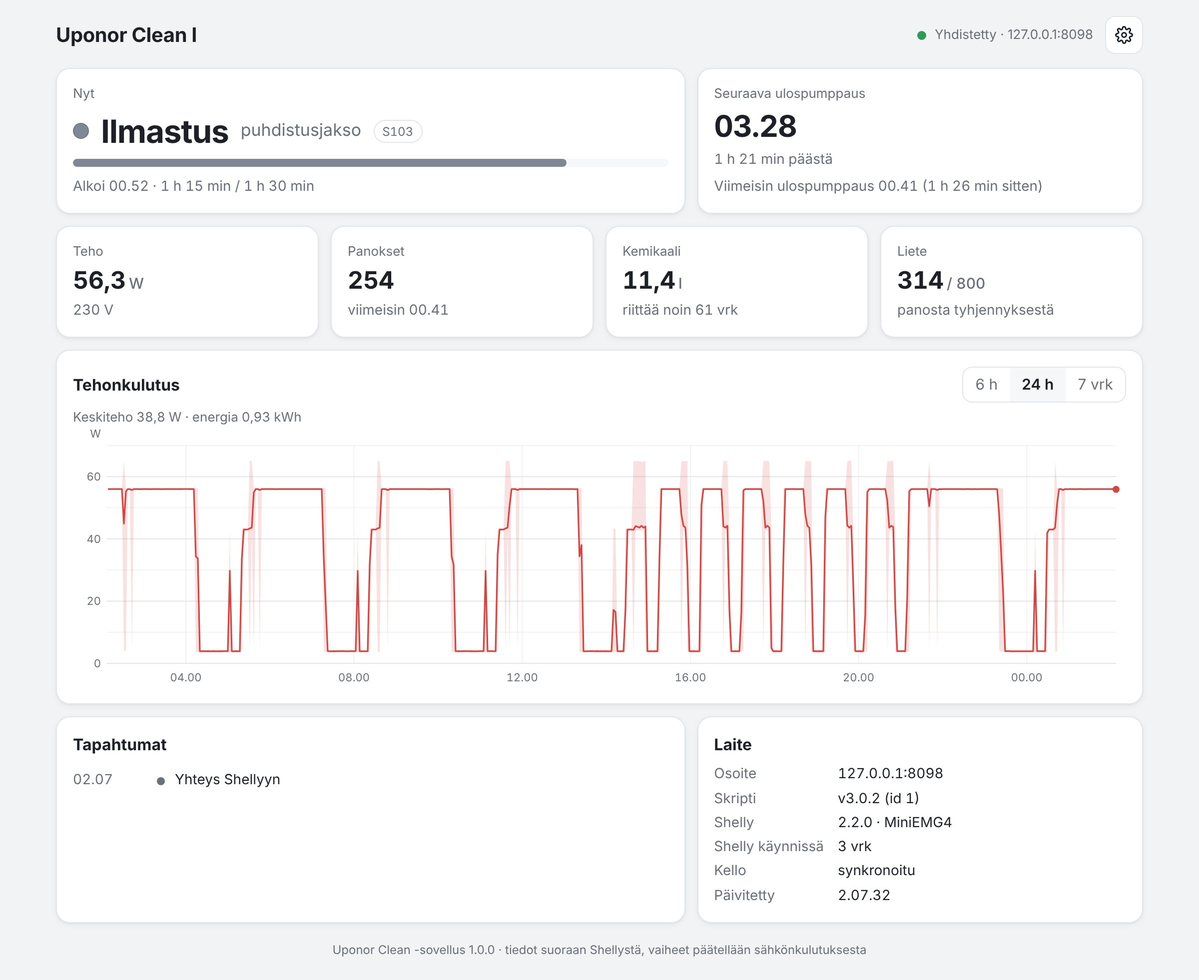
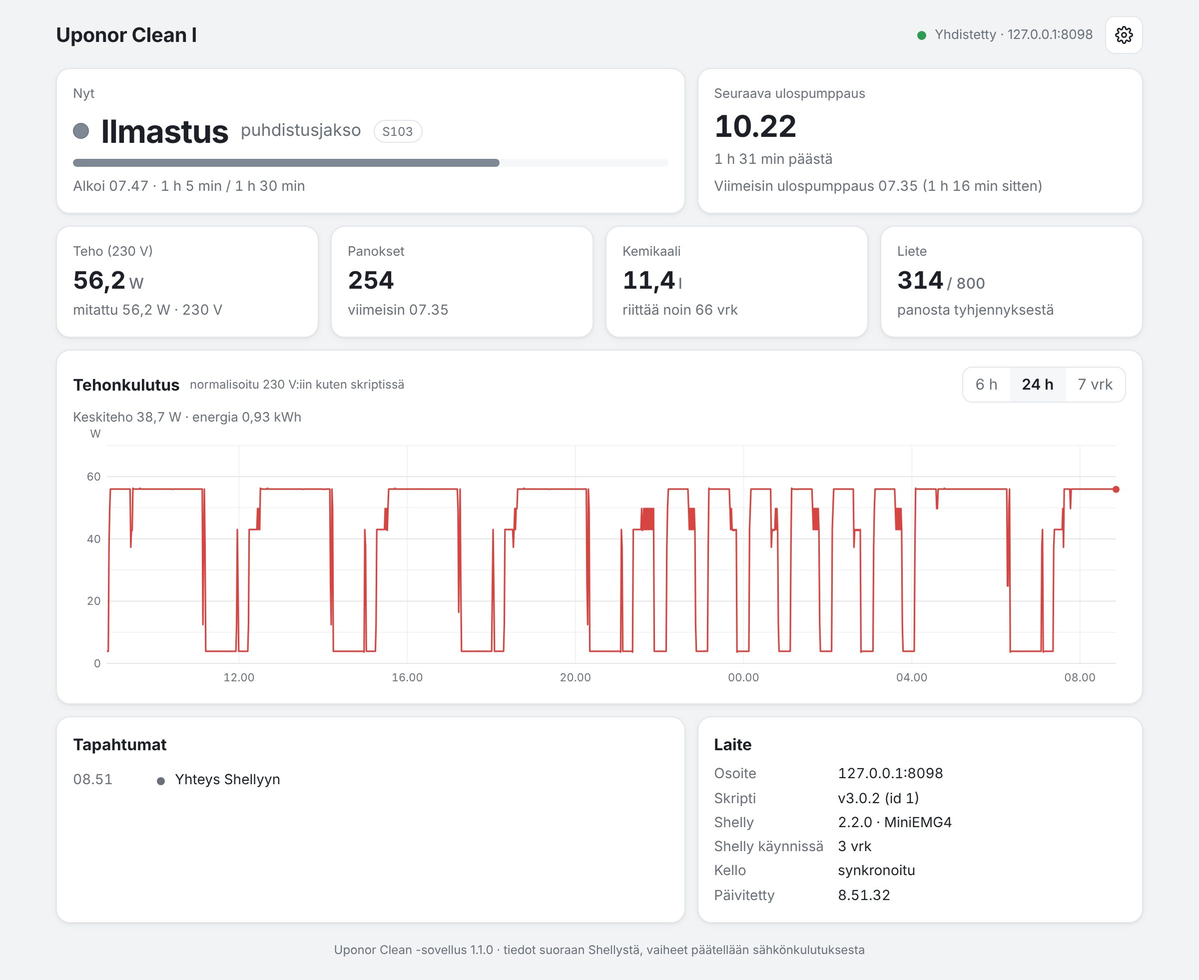
App 1.1.0: power normalised to 230 V, chart without the energy steps
The EM1Data minute energy comes in steps of about 0.2072 Wh, so the
minute average power computed from it jumped between 0, 12.4, 24.9,
37.3, 49.7 and 62.2 W and could fall below the minute's minimum power.
The chart now takes the power of a minute from the middle of its
minimum and maximum (or the energy average kept between them when the
power changed in the minute) and normalises it to 230 V with the
script's formula (P - 4) * (230 / U)^2 + 4. On the device the aeration
level is now 57.0 W +- 0.5 W instead of jumping by 12.4 W; the energy
over a day is unchanged. The min-max band is gone; 6 h and 24 h show a
point a minute, 7 d 15-minute averages. The power tile shows the
normalised power with the measured power and voltage under it.

The WebSocket mock quantises the minute energy like the device. Guides,
limits pages (new EM1Data energy step row) and screenshots updated.

Claude-Session: https://claude.ai/code/session_013N1LumQrB2qyWVDVuPZ4Fc

diff --git a/app/uponor-clean-app.html b/app/uponor-clean-app.html
@@ -12,19 +12,19 @@
 <style>
 :root {
   --bg: #f2f3f5; --card: #ffffff; --fg: #1d2127; --muted: #69707a; --line: #e3e5e9; --soft: #f6f7f9;
-  --accent: #2D8CE0; --power: #d64541; --band: rgba(214, 69, 65, .16); --ok: #2e9b55; --warn: #d9822b; --bad: #d64541;
+  --accent: #2D8CE0; --power: #d64541; --ok: #2e9b55; --warn: #d9822b; --bad: #d64541;
   --shadow: 0 1px 2px rgba(0,0,0,.05), 0 2px 8px rgba(0,0,0,.04);
   color-scheme: light;
 }
 @media (prefers-color-scheme: dark) {
   :root:not([data-theme="light"]) {
     --bg: #111317; --card: #1b1e24; --fg: #e7e9ec; --muted: #9aa1ab; --line: #2c3038; --soft: #22262d;
-    --accent: #4aa3ee; --power: #f0625d; --band: rgba(240, 98, 93, .2); --shadow: none; color-scheme: dark;
+    --accent: #4aa3ee; --power: #f0625d; --shadow: none; color-scheme: dark;
   }
 }
 :root[data-theme="dark"] {
   --bg: #111317; --card: #1b1e24; --fg: #e7e9ec; --muted: #9aa1ab; --line: #2c3038; --soft: #22262d;
-  --accent: #4aa3ee; --power: #f0625d; --band: rgba(240, 98, 93, .2); --shadow: none; color-scheme: dark;
+  --accent: #4aa3ee; --power: #f0625d; --shadow: none; color-scheme: dark;
 }
 * { box-sizing: border-box; }
 html, body { margin: 0; }
@@ -70,6 +70,7 @@ header h1 { font-size: 20px; margin: 0; font-weight: 650; letter-spacing: -.01em
 .banner ul { margin: 0; padding-left: 18px; }
 .chart-head { display: flex; align-items: center; gap: 10px; flex-wrap: wrap; margin-bottom: 6px; }
 .chart-head h2, .log h2, .info h2 { font-size: 16px; margin: 0; font-weight: 650; }
+.chart-head .lbl { font-size: 12px; }
 .seg { margin-left: auto; display: inline-flex; border: 1px solid var(--line); border-radius: 10px; overflow: hidden; }
 .seg button { border: 0; background: transparent; padding: 6px 12px; cursor: pointer; color: var(--muted); }
 .seg button.on { background: var(--soft); color: var(--fg); font-weight: 600; }
@@ -77,7 +78,6 @@ header h1 { font-size: 20px; margin: 0; font-weight: 650; letter-spacing: -.01em
 #plot { width: 100%; height: 260px; display: block; touch-action: pan-y; }
 #plot text { fill: var(--muted); font-size: 11px; font-variant-numeric: tabular-nums; }
 #plot .grid-l { stroke: var(--line); stroke-width: 1; }
-#plot .band { fill: var(--band); }
 #plot .avg { fill: none; stroke: var(--power); stroke-width: 1.6; stroke-linejoin: round; }
 #plot .now { fill: var(--power); }
 #plot .cross { stroke: var(--muted); stroke-dasharray: 3 3; }
@@ -143,7 +143,7 @@ footer { color: var(--muted); font-size: 12px; text-align: center; padding: 18px
 
     <section class="card chart">
       <div class="chart-head">
-        <h2 id="c-title"></h2>
+        <h2 id="c-title"></h2><span class="lbl" id="c-note"></span>
         <div class="seg" id="ranges" role="group">
           <button type="button" data-h="6">6 h</button><button type="button" data-h="24">24 h</button><button type="button" data-h="168" id="r7"></button>
         </div>
@@ -182,7 +182,7 @@ footer { color: var(--muted); font-size: 12px; text-align: center; padding: 18px
 <script>
 'use strict';
 (() => {
-const APP_VERSION = '1.0.0';
+const APP_VERSION = '1.1.0';
 
 // ------------------------------------------------------------------ texts
 const TX = {
@@ -194,13 +194,13 @@ const TX = {
     started: 'Alkoi {t}', of: '{a} / {b}', max: 'enintään {b}',
     next_out: 'Seuraava ulospumppaus', in: '{d} päästä', waiting_t: 'Odotetaan jätevettä', holiday_at: 'Loma-automatiikka alkaa {t}, jos aloitustasoa ei saavuteta',
     holiday_t: 'Loma-automatiikka', holiday_since: 'Käynnissä {t} alkaen', last_out: 'Viimeisin ulospumppaus {t} ({d} sitten)', no_eta: 'Ulospumppauksen aika näkyy, kun panos alkaa',
-    power: 'Teho', voltage: '{u} V', batches: 'Panokset', last_batch: 'viimeisin {t}', chemical: 'Kemikaali', lasts: 'riittää noin {d} vrk', chem_unset: 'syötä määrä Shellyssä',
+    power: 'Teho (230 V)', measured: 'mitattu {w} W · {u} V', batches: 'Panokset', last_batch: 'viimeisin {t}', chemical: 'Kemikaali', lasts: 'riittää noin {d} vrk', chem_unset: 'syötä määrä Shellyssä',
     sludge: 'Liete', sludge_sub: 'panosta tyhjennyksestä', sludge_reset: 'nollattu {t}', of_limit: '/ {n}',
     warn_t: 'Varoitukset', warn: { no_power: 'Ei sähköä – tarkista puhdistamon syöttö', air_leak: 'Suuri teho – tarkista ilmaletkut ja kompressori', no_signal: 'Tehomittaus puuttuu',
       compressor_idle: 'Kompressori ei käy', outlet_blocked: 'Lähtö tukossa? Pinta ei laskenut ulospumppauksessa', high_water: 'Korkea vesi – ilmastus ohitettiin tai katkesi',
       paused: 'Prosessi pysähtynyt? (esim. radiopaneelista)', chemical_low: 'Kemikaali vähissä – täytä ja syötä määrä', sludge_due: 'Lietteen tyhjennys ajankohtainen',
       sludge_emptied: 'Liete tyhjennetty? Nollaa lietelaskuri' },
-    chart: 'Tehonkulutus', d7: '7 vrk', avg: 'keskim. {w} W', range: '{a}–{b} W', sum: 'Keskiteho {w} W · energia {e} kWh{d}', per_day: ' · {e} kWh/vrk',
+    chart: 'Tehonkulutus', note: 'normalisoitu 230 V:iin kuten skriptissä', d7: '7 vrk', tip: '{t} · {w} W · mitattu {r} W, {u} V', sum: 'Keskiteho {w} W · energia {e} kWh{d}', per_day: ' · {e} kWh/vrk',
     no_hist: 'Tehohistoriaa ei ole vielä luettu', loading: 'Luetaan tehohistoriaa…',
     log: 'Tapahtumat', log_empty: 'Tapahtumat näkyvät tässä, kun sovellus on auki.',
     ev_phase: '{p} · {c}', ev_batch: 'Panos {n} valmis', ev_batch_user: 'Panoslaskuri asetettu: {n}', ev_warn_on: 'Varoitus: {w}', ev_warn_off: 'Varoitus poistui: {w}',
@@ -222,13 +222,13 @@ const TX = {
     started: 'Started {t}', of: '{a} / {b}', max: 'at most {b}',
     next_out: 'Next pump-out', in: 'in {d}', waiting_t: 'Waiting for wastewater', holiday_at: 'Holiday programme starts {t} if the start level is not reached',
     holiday_t: 'Holiday programme', holiday_since: 'Running since {t}', last_out: 'Last pump-out {t} ({d} ago)', no_eta: 'The pump-out time shows once a batch starts',
-    power: 'Power', voltage: '{u} V', batches: 'Batches', last_batch: 'last {t}', chemical: 'Chemical', lasts: 'lasts about {d} days', chem_unset: 'enter the amount in the Shelly',
+    power: 'Power (230 V)', measured: 'measured {w} W · {u} V', batches: 'Batches', last_batch: 'last {t}', chemical: 'Chemical', lasts: 'lasts about {d} days', chem_unset: 'enter the amount in the Shelly',
     sludge: 'Sludge', sludge_sub: 'batches since emptying', sludge_reset: 'reset {t}', of_limit: '/ {n}',
     warn_t: 'Warnings', warn: { no_power: 'No power – check the plant supply', air_leak: 'High power – check the air hoses and the compressor', no_signal: 'Power reading missing',
       compressor_idle: 'Compressor not running', outlet_blocked: 'Outlet blocked? The level did not drop at pump-out', high_water: 'High water – aeration skipped or cut short',
       paused: 'Process paused? (e.g. stopped from the radio panel)', chemical_low: 'Chemical low – refill and enter the amount', sludge_due: 'Sludge emptying due',
       sludge_emptied: 'Sludge emptied? Reset the sludge counter' },
-    chart: 'Power consumption', d7: '7 d', avg: 'avg {w} W', range: '{a}–{b} W', sum: 'Average {w} W · energy {e} kWh{d}', per_day: ' · {e} kWh/day',
+    chart: 'Power consumption', note: 'normalised to 230 V as in the script', d7: '7 d', tip: '{t} · {w} W · measured {r} W, {u} V', sum: 'Average {w} W · energy {e} kWh{d}', per_day: ' · {e} kWh/day',
     no_hist: 'No power history read yet', loading: 'Reading the power history…',
     log: 'Events', log_empty: 'Events show here while the app is open.',
     ev_phase: '{p} · {c}', ev_batch: 'Batch {n} completed', ev_batch_user: 'Batch counter set: {n}', ev_warn_on: 'Warning: {w}', ev_warn_off: 'Warning cleared: {w}',
@@ -396,7 +396,7 @@ function setTexts() {
   $('setb').setAttribute('aria-label', T.settings); $('setb').title = T.settings;
   $('l-now').textContent = T.now;
   $('tl-power').textContent = T.power; $('tl-batch').textContent = T.batches; $('tl-chem').textContent = T.chemical; $('tl-sludge').textContent = T.sludge;
-  $('c-title').textContent = T.chart; $('r7').textContent = T.d7; $('g-title').textContent = T.log; $('i-title').textContent = T.info; $('gempty').textContent = T.log_empty;
+  $('c-title').textContent = T.chart; $('c-note').textContent = T.note; $('r7').textContent = T.d7; $('g-title').textContent = T.log; $('i-title').textContent = T.info; $('gempty').textContent = T.log_empty;
   $('d-title').textContent = T.d_title; $('d-hint').textContent = T.d_hint; $('d-host-l').textContent = T.d_host; $('d-pw-l').textContent = T.d_pw;
   $('d-rem-l').textContent = T.d_rem; $('d-lang-l').textContent = T.d_lang; $('d-lang').options[0].textContent = T.d_auto; $('d-cancel').textContent = T.d_cancel; $('d-ok').textContent = T.d_ok;
   $('foot').textContent = fmt(T.foot, { v: APP_VERSION });
@@ -445,9 +445,10 @@ function render() {
   $('n-big').style.fontSize = $('n-big').textContent.length > 12 ? '22px' : '';
   $('n-last').textContent = st.last_pumpout ? fmt(T.last_out, { t: dayhm(st.last_pumpout), d: dur(now - st.last_pumpout) }) : '';
   // tiles
-  const pw = S.power !== null && now - S.powerAt < 30 ? S.power : st.power;
-  $('tv-power').innerHTML = num(pw, 1) + '<small>W</small>';
-  $('ts-power').textContent = S.voltage ? fmt(T.voltage, { u: num(S.voltage, 0) }) : ' ';
+  // normalised to 230 V like the chart and the script (the script's own value as a fallback)
+  const live = S.power !== null && now - S.powerAt < 30;
+  $('tv-power').innerHTML = num(live ? normW(S.power, S.voltage) : st.power, 1) + '<small>W</small>';
+  $('ts-power').textContent = live && S.voltage ? fmt(T.measured, { w: num(S.power, 1), u: num(S.voltage, 0) }) : '\u00a0';
   $('tv-batch').textContent = num(st.batches);
   $('ts-batch').textContent = st.last_pumpout ? fmt(T.last_batch, { t: dayhm(st.last_pumpout) }) : ' ';
   const ch = st.chemical || {};
@@ -524,7 +525,7 @@ async function fetchRange(from, to, onPage) {
     for (const blk of r.data || []) {
       blk.values.forEach((v, i) => {
         const ts = blk.ts + i * blk.period;
-        S.recs.set(ts, { e: v[KI.total_act_energy], mx: v[KI.max_act_power], mn: v[KI.min_act_power], p: blk.period });
+        S.recs.set(ts, { e: v[KI.total_act_energy], mx: v[KI.max_act_power], mn: v[KI.min_act_power], u: v[KI.avg_voltage], p: blk.period });
         if (S.lastTs === null || ts > S.lastTs) S.lastTs = ts;
       });
     }
@@ -554,26 +555,34 @@ async function loadHistory(full) {
   renderChart();
 }
 
+// The power of a minute: the middle of its minimum and maximum when they are close. The minute
+// energy of the Shelly comes in steps of about 0.207 Wh (12.4 W), so an average from it would jump.
+// When the power changed during the minute: the energy average, kept between the minimum and maximum.
+const minuteW = (r) => (r.mx - r.mn < 6 ? (r.mn + r.mx) / 2 : Math.min(r.mx, Math.max(r.mn, r.e * 3600 / r.p)));
+// normalised to 230 V like in the script, so that the voltage does not move the levels
+const normW = (p, u) => (p > 10 && u > 50 ? (p - 4) * (230 / u) * (230 / u) + 4 : p);
+
 let chartPts = null;
 function renderChart() {
   const svg = $('plot'), W = svg.clientWidth || 800, H = svg.clientHeight || 260;
   svg.setAttribute('viewBox', `0 0 ${W} ${H}`);
   const now = Date.now() / 1000, span = S.hours * 3600, t0 = now - span;
   const padL = 34, padR = 10, padT = 18, padB = 24, pw = W - padL - padR, ph = H - padT - padB;
-  // buckets: about one per 2 px
-  const nb = Math.max(30, Math.min(S.hours * 60, Math.floor(pw / 2)));
-  const bs = span / nb;
-  const B = [];
+  // one point a minute, or a 15-minute average over 7 days
+  const bs = S.hours > 24 ? 900 : 60;
+  const map = new Map(); let eSum = 0, sSum = 0;
   for (const [ts, r] of S.recs) {
     if (ts + r.p <= t0 || ts > now) continue;
-    const i = Math.min(nb - 1, Math.max(0, Math.floor((ts - t0) / bs)));
-    const b = B[i] || (B[i] = { e: 0, s: 0, mn: Infinity, mx: -Infinity, t: t0 + (i + 0.5) * bs });
-    b.e += r.e; b.s += r.p; b.mn = Math.min(b.mn, r.mn); b.mx = Math.max(b.mx, r.mx);
+    const k = Math.floor(ts / bs), w = minuteW(r), u = r.u || 230;
+    const b = map.get(k) || { k, n: 0, w: 0, pn: 0, u: 0, t: k * bs + bs / 2 };
+    b.n++; b.w += w; b.pn += normW(w, u); b.u += u; map.set(k, b);
+    eSum += r.e; sSum += r.p;
   }
-  let ymax = 70; let eSum = 0, sSum = 0;
-  for (const b of B) if (b) { b.avg = b.e * 3600 / b.s; ymax = Math.max(ymax, b.mx); eSum += b.e; sSum += b.s; }
+  const B = [...map.values()].sort((a, b) => a.k - b.k);
+  let ymax = 70;
+  for (const b of B) { b.w /= b.n; b.pn /= b.n; b.u /= b.n; ymax = Math.max(ymax, b.pn); }
   ymax = Math.ceil(ymax / 10) * 10;
-  const x = (t) => padL + (t - t0) / span * pw, y = (w) => padT + ph - w / ymax * ph;
+  const x = (t) => padL + (Math.min(now, Math.max(t0, t)) - t0) / span * pw, y = (w) => padT + ph - w / ymax * ph;
   let o = '';
   const step = ymax > 100 ? 25 : 10, lstep = ymax > 100 ? 50 : 20;
   for (let w = 0; w <= ymax; w += step) {
@@ -589,37 +598,39 @@ function renderChart() {
     o += `<line class="grid-l" x1="${x(t).toFixed(1)}" x2="${x(t).toFixed(1)}" y1="${padT}" y2="${padT + ph}" stroke-opacity=".5"/>`;
     o += `<text x="${x(t).toFixed(1)}" y="${H - 6}" text-anchor="middle">${lab}</text>`;
   }
-  // band (min-max) and average line, broken at gaps
-  const segs = []; let cur = [];
-  for (let i = 0; i < nb; i++) { if (B[i]) cur.push(B[i]); else if (cur.length) { segs.push(cur); cur = []; } }
-  if (cur.length) segs.push(cur);
-  for (const s of segs) {
-    const up = s.map((b) => `${x(b.t).toFixed(1)},${y(b.mx).toFixed(1)}`), dn = s.slice().reverse().map((b) => `${x(b.t).toFixed(1)},${y(b.mn).toFixed(1)}`);
-    if (s.length === 1) { const b = s[0]; o += `<rect class="band" x="${(x(b.t) - 1).toFixed(1)}" y="${y(b.mx).toFixed(1)}" width="2" height="${Math.max(1, y(b.mn) - y(b.mx)).toFixed(1)}"/>`; continue; }
-    o += `<polygon class="band" points="${up.join(' ')} ${dn.join(' ')}"/>`;
-    o += `<polyline class="avg" points="${s.map((b) => `${x(b.t).toFixed(1)},${y(b.avg).toFixed(1)}`).join(' ')}"/>`;
-  }
+  // the line, broken where minutes are missing
+  let seg = [];
+  const flush = () => {
+    if (seg.length === 1) o += `<circle class="now" cx="${x(seg[0].t).toFixed(1)}" cy="${y(seg[0].pn).toFixed(1)}" r="1.2"/>`;
+    else if (seg.length) o += `<polyline class="avg" points="${seg.map((b) => `${x(b.t).toFixed(1)},${y(b.pn).toFixed(1)}`).join(' ')}"/>`;
+    seg = [];
+  };
+  for (let i = 0; i < B.length; i++) { if (i && B[i].k - B[i - 1].k > 1) flush(); seg.push(B[i]); }
+  flush();
   // live power at the right edge
-  if (S.connected && S.power !== null && now - S.powerAt < 30) o += `<circle class="now" cx="${x(now).toFixed(1)}" cy="${y(Math.min(S.power, ymax)).toFixed(1)}" r="3.5"/>`;
+  if (S.connected && S.power !== null && now - S.powerAt < 30) o += `<circle class="now" cx="${x(now).toFixed(1)}" cy="${y(Math.min(normW(S.power, S.voltage), ymax)).toFixed(1)}" r="3.5"/>`;
   o += `<line class="cross" id="cross" x1="0" x2="0" y1="${padT}" y2="${padT + ph}" visibility="hidden"/>`;
-  if (!B.some(Boolean)) o += `<text x="${(padL + pw / 2).toFixed(0)}" y="${(padT + ph / 2).toFixed(0)}" text-anchor="middle" style="font-size:13px">${esc(S.connected && (S.histBusy || S.lastTs === null) ? T.loading : S.histErr ? S.histErr : T.no_hist)}</text>`;
+  if (!B.length) o += `<text x="${(padL + pw / 2).toFixed(0)}" y="${(padT + ph / 2).toFixed(0)}" text-anchor="middle" style="font-size:13px">${esc(S.connected && (S.histBusy || S.lastTs === null) ? T.loading : S.histErr ? S.histErr : T.no_hist)}</text>`;
   svg.innerHTML = o;
-  chartPts = { B, x, t0, bs, nb, padL, pw, W };
+  chartPts = { B, x, t0, span, padL, pw, W, bs };
   $('csum').textContent = sSum > 0 ? fmt(T.sum, { w: num(eSum * 3600 / sSum, 1), e: num(eSum / 1000, 2), d: S.hours > 24 ? fmt(T.per_day, { e: num(eSum / 1000 / (sSum / 86400), 2) }) : '' }) : ' ';
   for (const b of $('ranges').children) b.classList.toggle('on', Number(b.dataset.h) === S.hours);
 }
 
 function hover(ev) {
   const P = chartPts, tip = $('tip'), cross = document.getElementById('cross');
-  if (!P || !cross) return;
+  if (!P || !cross || !P.B.length) return;
   const r = $('plot').getBoundingClientRect();
   const px = (ev.clientX - r.left) * (P.W / r.width);
-  const i = Math.floor((px - P.padL) / P.pw * P.nb);
-  let b = null; for (let k = 0; k < 4 && !b; k++) b = P.B[i - k] || P.B[i + k];
-  if (!b || px < P.padL) { tip.style.display = 'none'; cross.setAttribute('visibility', 'hidden'); return; }
+  const t = P.t0 + (px - P.padL) / P.pw * P.span;
+  let lo = 0, hi = P.B.length - 1;
+  while (lo < hi) { const mid = (lo + hi) >> 1; if (P.B[mid].t < t) lo = mid + 1; else hi = mid; }
+  if (lo > 0 && Math.abs(P.B[lo - 1].t - t) < Math.abs(P.B[lo].t - t)) lo--;
+  const b = P.B[lo];
+  if (px < P.padL || Math.abs(b.t - t) > P.bs * 3) { tip.style.display = 'none'; cross.setAttribute('visibility', 'hidden'); return; }
   cross.setAttribute('x1', P.x(b.t)); cross.setAttribute('x2', P.x(b.t)); cross.setAttribute('visibility', 'visible');
-  const t = b.t, lab = S.hours > 24 ? new Date(t * 1000).toLocaleDateString(loc(), { weekday: 'short', day: 'numeric', month: 'numeric' }) + ' ' + hm(t) : hm(t);
-  tip.textContent = lab + ' · ' + fmt(T.avg, { w: num(b.avg, 1) }) + ' · ' + fmt(T.range, { a: num(b.mn, 0), b: num(b.mx, 0) });
+  const lab = S.hours > 24 ? new Date(b.t * 1000).toLocaleDateString(loc(), { weekday: 'short', day: 'numeric', month: 'numeric' }) + ' ' + hm(b.t) : hm(b.t);
+  tip.textContent = fmt(T.tip, { t: lab, w: num(b.pn, 1), r: num(b.w, 1), u: num(b.u, 0) });
   tip.style.display = 'block';
   const wx = (P.x(b.t) / P.W) * r.width;
   tip.style.left = Math.min(Math.max(0, wx - tip.offsetWidth / 2), r.width - tip.offsetWidth) + 'px';

diff --git a/test/shelly_ws_mock.js b/test/shelly_ws_mock.js
@@ -44,14 +44,19 @@ function powerAt(t) {
   while (lo < hi) { const mid = (lo + hi + 1) >> 1; if (feed[mid].t <= t) lo = mid; else hi = mid - 1; }
   return feed[lo].p;
 }
+// cumulative energy (Wh) at each feed change, for the energy of any minute
+const cum = [0];
+for (let i = 1; i < feed.length; i++) cum.push(cum[i - 1] + feed[i - 1].p * (feed[i].t - feed[i - 1].t) / 3600e3);
+function idxAt(t) { let lo = 0, hi = feed.length - 1; while (lo < hi) { const mid = (lo + hi + 1) >> 1; if (feed[mid].t <= t) lo = mid; else hi = mid - 1; } return lo; }
+function energyAt(t) { if (!feed.length || t <= feed[0].t) return 0; const i = idxAt(t); return cum[i] + feed[i].p * (t - feed[i].t) / 3600e3; }
+// like the device: the minute energy comes in steps of 0.2072 Wh
+const EQ = 0.2072;
 // one EM1Data record (60 s from ts, seconds): energy Wh, min and max power
 function record(ts) {
   const a = ts * 1000, b = a + 60e3;
-  let lo = 0, hi = feed.length - 1;
-  while (lo < hi) { const mid = (lo + hi + 1) >> 1; if (feed[mid].t <= a) lo = mid; else hi = mid - 1; }
-  let t = a, p = feed[lo] && feed[lo].t <= a ? feed[lo].p : 0, wh = 0, mn = p, mx = p, i = lo + 1;
-  while (i < feed.length && feed[i].t < b) { wh += p * (feed[i].t - t) / 3600e3; t = feed[i].t; p = feed[i].p; mn = Math.min(mn, p); mx = Math.max(mx, p); i++; }
-  wh += p * (b - t) / 3600e3;
+  const wh = (Math.floor(energyAt(b) / EQ) - Math.floor(energyAt(a) / EQ)) * EQ;
+  let i = idxAt(a), p = feed[i] && feed[i].t <= a ? feed[i].p : 0, mn = p, mx = p; i++;
+  while (i < feed.length && feed[i].t < b) { p = feed[i].p; mn = Math.min(mn, p); mx = Math.max(mx, p); i++; }
   const u = 230, r4 = (x) => Math.round(x * 1e4) / 1e4, r1 = (x) => Math.round(x * 10) / 10;
   return [r4(wh), 0, 0, 0, r1(mx), r1(mn), r1(mx * 1.08), r1(mn * 1.08), u + 0.4, u - 0.3, u, r4(mx / u), r4(mn / u), r4(wh * 60 / u)];
 }

diff --git a/docs/sovellus.md b/docs/sovellus.md
@@ -10,9 +10,9 @@
 
 - **Nyt**: vaihe, jakso ja vaihekoodi (esim. `S103`), vaiheen alkamisaika ja eteneminen firmwaren vaiheajoista.
 - **Seuraava ulospumppaus** kellonaikana ja aikana siihen. Odotusjaksossa sovellus näyttää, milloin loma-automatiikka alkaa, jos aloitustasoa ei saavuteta. Lisäksi näkyy viimeisin ulospumppaus.
-- **Teho** ja jännite noin 3 sekunnin välein, **panokset**, **kemikaali** ja sen riittävyys sekä **lietelaskuri**.
+- **Teho** normalisoituna 230 V:iin (alla mitattu teho ja jännite) noin 3 sekunnin välein, **panokset**, **kemikaali** ja sen riittävyys sekä **lietelaskuri**.
 - **Varoitukset** palkkina sivun yläosassa.
-- **Tehonkulutus** käyränä 6 tunnin, 24 tunnin tai 7 vuorokauden ajalta. Viiva on minuutin keskiteho, ja vaalea alue on pienin ja suurin teho. Käyrän yläpuolella on valitun jakson keskiteho ja energia. Osoittimen kohdalla näkyy ajankohdan tarkempi lukema.
+- **Tehonkulutus** käyränä 6 tunnin, 24 tunnin tai 7 vuorokauden ajalta. Käyrä on normalisoitu 230 V:n jännitteelle samalla kaavalla kuin skriptissä, joten jännitteen vaihtelu ei heiluta tasoja (ilmastus noin 57 W, sisäänpumppaus noin 43 W). 6 ja 24 tunnin näkymässä käyrällä on piste minuutin välein, 7 vuorokauden näkymässä 15 minuutin keskiarvo. Käyrän yläpuolella on valitun jakson keskiteho ja energia mitattuina. Osoittimen kohdalla näkyy normalisoitu teho sekä mitattu teho ja jännite.
 - **Tapahtumat** sinä aikana, kun sovellus on auki: vaihemuutokset, valmiit panokset, varoitukset, kemikaalin ja laskurien syötöt sekä skriptin käynnistykset.
 - **Laite**: skriptin ja Shellyn versio, käyntiaika ja kellon tila.
 
@@ -50,9 +50,11 @@ Kaikki kulkee Shellyn WebSocket-rajapinnan kautta (`ws://<shelly>/rpc`):
 | Skriptin tila | `Script.Eval` → `JSON.stringify(stateObject())` | 6 s ja tapahtuman jälkeen |
 | Teho ja jännite | `EM1.GetStatus` tai Shellyn lähettämä `NotifyStatus` | 3 s |
 | Tapahtumat | skriptin `uponor`-tapahtumat (`NotifyEvent`) | heti |
-| Tehohistoria | `EM1Data.GetData` (minuuttitiedot: energia, pienin ja suurin teho) | alussa 7 vrk, sitten minuutin välein uudet |
+| Tehohistoria | `EM1Data.GetData` (minuuttitiedot: energia, pienin ja suurin teho, jännite) | alussa 7 vrk, sitten minuutin välein uudet |
 
 Skriptin tilakysely `http://<shelly>/script/<id>/state` ei kelpaa selaimelle: Shelly vastaa 503, jos HTTP-kyselyssä on toisen sivun `Origin`-otsake (ks. [`shelly-rajoitteet.md`](shelly-rajoitteet.md)). Siksi sovellus lukee saman tilan `Script.Eval`-kutsulla. Skriptiin ei tarvittu muutoksia; funktion `stateObject()` nimi on nyt sovitun rajapinnan osa.
+
+Minuutin teho lasketaan minuutin pienimmästä ja suurimmasta tehosta. Shellyn minuuttienergia on porrastettu noin 0,207 Wh:n askeliin, joten siitä laskettu keskiteho hyppisi 12,4 W:n portain (ks. [`shelly-rajoitteet.md`](shelly-rajoitteet.md)). Jos teho muuttui kesken minuutin, käytetään energiasta laskettua keskiarvoa pienimmän ja suurimman tehon välissä. Teho normalisoidaan kaavalla (P − 4) · (230 / U)² + 4, kun P on yli 10 W.
 
 Vaiheiden historiaa sovellus ei näytä, koska Shelly ei tallenna sitä. Tapahtumaloki alkaa, kun sovellus avataan.
 

diff --git a/docs/app.md b/docs/app.md
@@ -10,9 +10,9 @@
 
 - **Now**: phase, cycle and phase code (e.g. `S103`), when the phase started and its progress from the firmware phase times.
 - **Next pump-out** as a clock time and the time until it. In the waiting cycle the app shows when the holiday programme starts if the start level is not reached. The last pump-out is shown too.
-- **Power** and voltage about every 3 seconds, **batches**, **chemical** and how long it lasts, and the **sludge counter**.
+- **Power** normalised to 230 V (below it the measured power and voltage) about every 3 seconds, **batches**, **chemical** and how long it lasts, and the **sludge counter**.
 - **Warnings** as a bar at the top of the page.
-- **Power consumption** as a chart over 6 hours, 24 hours or 7 days. The line is the average power of each minute and the light area the minimum and maximum. Above the chart are the average power and energy of the range. The pointer shows the reading at that time.
+- **Power consumption** as a chart over 6 hours, 24 hours or 7 days. The chart is normalised to a voltage of 230 V with the same formula as in the script, so the voltage does not move the levels (aeration about 57 W, pump-in about 43 W). In the 6 and 24 hour views the chart has a point a minute, in the 7 day view a 15-minute average. Above the chart are the measured average power and energy of the range. The pointer shows the normalised power and the measured power and voltage.
 - **Events** while the app is open: phase changes, completed batches, warnings, chemical and counter entries, and script starts.
 - **Device**: script and Shelly versions, uptime and clock state.
 
@@ -50,9 +50,11 @@ Everything goes through the Shelly WebSocket RPC (`ws://<shelly>/rpc`):
 | Script state | `Script.Eval` → `JSON.stringify(stateObject())` | 6 s and after an event |
 | Power and voltage | `EM1.GetStatus` or `NotifyStatus` sent by the Shelly | 3 s |
 | Events | the script's `uponor` events (`NotifyEvent`) | at once |
-| Power history | `EM1Data.GetData` (one record a minute: energy, minimum and maximum power) | 7 days at first, then the new minutes every minute |
+| Power history | `EM1Data.GetData` (one record a minute: energy, minimum and maximum power, voltage) | 7 days at first, then the new minutes every minute |
 
 The script's state endpoint `http://<shelly>/script/<id>/state` does not work for a browser: the Shelly answers 503 when an HTTP request carries the `Origin` header of another page (see [`shelly-limits.md`](shelly-limits.md)). So the app reads the same state with `Script.Eval`. The script needed no changes; the name of the function `stateObject()` is now part of the agreed interface.
+
+The power of a minute is taken from its minimum and maximum power. The minute energy of the Shelly comes in steps of about 0.207 Wh, so an average power from it would jump in steps of 12.4 W (see [`shelly-limits.md`](shelly-limits.md)). If the power changed during the minute, the energy average is used, kept between the minimum and maximum. The power is normalised with (P − 4) · (230 / U)² + 4 when P is over 10 W.
 
 The app does not show the phase history, because the Shelly does not store it. The event log starts when the app is opened.
 

diff --git a/README.fi.md b/README.fi.md
@@ -36,7 +36,7 @@ Home Assistantia ei tarvita: skriptin komponentit näkyvät myös Shellyn omassa
 | `shelly/v2/` | Vanhat skriptit v2.4 ja v2.3 (eivät käytössä) sekä v2.4:n komponenttien varmuuskopio (`backup/`). |
 | `shelly/v3/proto/` | v3-prototyypit laitetestiin ja komponenttien varmuuskopiotyökalu `uc_tools.js` (käytetty siirtymässä). Ohje: `docs/v3-prototyyppitesti.md`. |
 | `shelly/tools/` | `nauhuri.ps1` (Windows-nauhuri vianetsintään: teho sekunnin välein CSV:ksi), `lataa_shellyyn.py` (lataus Shellyyn RPC:llä), `compact.py` (tiivistys), `make_v24.py` (v2.3 → v2.4 -muunnos). |
-| `app/` | Selainsovellus `uponor-clean-app.html` 1.0.0 (yksi tiedosto, ohje `docs/sovellus.md`). |
+| `app/` | Selainsovellus `uponor-clean-app.html` 1.1.0 (yksi tiedosto, ohje `docs/sovellus.md`). |
 | `ha-card/` | Lovelace-kortti `uponor-clean-card.js` v1.7.4, ohje, esikatselusivu (`preview.html`) ja sen päivitystyökalu (`tools/build_preview.py`). |
 | `test/` | Node-testiympäristö: ajaa oikeaa skriptitiedostoa virtuaalikellolla Shelly-jäljitelmässä, firmwaresimulaattori, skenaariot, kortin testi ja sovelluksen WebSocket-jäljitelmä. |
 | `docs/` | Ohjeet, kuvat (`img/`), firmwaren pseudokoodi, v2-dokumentaatio ja v3-suunnitelman tiivistelmä. |
@@ -47,7 +47,7 @@ Home Assistantia ei tarvita: skriptin komponentit näkyvät myös Shellyn omassa
 | --- | --- |
 | Skripti v3.0.2 | Käytössä 19.11.2026 alkaen (julkaisu [v3.0.2](../../releases/tag/v3.0.2)). v3.0.0–3.0.1 kaatuivat ensimmäisen puhdistusjakson alussa liian syvään kutsupinoon (`docs/v3-testitulokset.md`). Ei vaadi Home Assistantia, luo komponentit itse, firmwaren mukaiset vaiheet ja jaksot, kemikaali- ja lietelaskuri, varoitukset, tapahtumat. |
 | Kortti v1.7.4 | Käytössä. v3-entiteetit, v2-historia ennen v3:a, visuaalinen editori ja kielivalinta, kemikaalin ja lietteen syöttö kortilta. |
-| Sovellus 1.0.0 | Uusi 22.11.2026: `app/uponor-clean-app.html` näyttää livetiedot ja Shellyn tallentaman tehohistorian selaimessa ([ohje](docs/sovellus.md)). |
+| Sovellus 1.1.0 | Uusi 22.11.2026: `app/uponor-clean-app.html` näyttää livetiedot ja Shellyn tallentaman tehohistorian selaimessa ([ohje](docs/sovellus.md)). 1.1.0: teho ja käyrä normalisoitu 230 V:iin, käyrä minuutin pienimmästä ja suurimmasta tehosta. |
 | Nauhuri 1.0 | Uusi 21.11.2026: `shelly/tools/nauhuri.ps1` nauhoittaa tehon vianetsintää varten ([ohje](docs/v3-asennus.md#nauhoitus-vianetsintää-varten)). |
 | Skripti v2.4.0 | Poistettu käytöstä 18.11.2026 ja poistettu laitteelta 19.11.2026. Ei siirtymää eikä paluuta. |
 | Skripti v2.3 | Vanha versio. |

diff --git a/README.md b/README.md
@@ -36,7 +36,7 @@ Development notes are in Finnish only: test results ([`docs/v3-testitulokset.md`
 | `shelly/v2/` | Old scripts v2.4 and v2.3 (not in use) and a backup of the v2.4 components (`backup/`). |
 | `shelly/v3/proto/` | v3 prototypes for the device test and the component backup tool `uc_tools.js` (used in the migration). |
 | `shelly/tools/` | `nauhuri.ps1` (Windows recorder for troubleshooting: power once a second to CSV), `lataa_shellyyn.py` (uploads a script over RPC in chunks), `compact.py` (makes the compact version), `make_v24.py` (v2.3 → v2.4). |
-| `app/` | Browser app `uponor-clean-app.html` 1.0.0 (a single file, guide `docs/app.md`). |
+| `app/` | Browser app `uponor-clean-app.html` 1.1.0 (a single file, guide `docs/app.md`). |
 | `ha-card/` | Lovelace card `uponor-clean-card.js` v1.7.4, its guide, a preview page (`preview.html`) and its build tool (`tools/build_preview.py`). |
 | `test/` | Node test environment: runs the real script file with a virtual clock in a Shelly mock, a control unit firmware simulator, scenarios, the card test and the WebSocket mock for the app. |
 | `docs/` | Guides, images (`img/`), the firmware pseudocode, v2 documentation and the v3 plan summary. |
@@ -47,7 +47,7 @@ Development notes are in Finnish only: test results ([`docs/v3-testitulokset.md`
 | --- | --- |
 | Script v3.0.2 | In use since 19 Nov 2026 (release [v3.0.2](../../releases/tag/v3.0.2)). v3.0.0–3.0.1 stopped at the start of the first cleaning cycle because the call stack got too deep (see the test results). Does not need Home Assistant, creates its own components, follows the firmware's phases and cycles, chemical and sludge counters, warnings, events. |
 | Card v1.7.4 | In use. v3 entities, v2 history before v3, visual editor and language option, entering chemical and sludge on the card. |
-| App 1.0.0 | New on 22 Nov 2026: `app/uponor-clean-app.html` shows live data and the power history stored on the Shelly in a browser ([guide](docs/app.md)). |
+| App 1.1.0 | New on 22 Nov 2026: `app/uponor-clean-app.html` shows live data and the power history stored on the Shelly in a browser ([guide](docs/app.md)). 1.1.0: power and chart normalised to 230 V, chart from the minute's minimum and maximum power. |
 | Recorder 1.0 | New on 21 Nov 2026: `shelly/tools/nauhuri.ps1` records the power for troubleshooting ([guide](docs/v3-install.md#recording-for-troubleshooting)). |
 | Script v2.4.0 | Retired on 18 Nov 2026 and removed from the device on 19 Nov 2026. No migration or return path. |
 | Script v2.3 | Old version. |

diff --git a/docs/shelly-limits.md b/docs/shelly-limits.md
@@ -51,5 +51,6 @@ Limits that came up while writing this script. They were found on a Shelly EM Mi
 | --- | --- | --- |
 | The web UI editor's text field holds at most 50,000 characters (`maxlength`). Tested on 19 Nov 2026: of a 60,000-character paste, 50,000 were kept, and Save stored the truncated code on the device. The device itself accepts longer code over RPC (`Script.PutCode`, tested with 60,000 characters). | The paste is cut **without any warning**, and the truncated script is saved | The compact version (about 40,000 characters) or `shelly/tools/lataa_shellyyn.py`, which writes in chunks. Reported to Shelly through the web UI's Feedback form. |
 | The Shelly answers 503 to an HTTP request that carries the `Origin` header of another page. This covers the RPC calls and the script's own HTTP endpoints, and a page opened from a local file (`Origin: null`) too. A CORS header in the script's response does not help. There is no setting for it. Tested on 22 Nov 2026. | A browser app cannot use the HTTP API | WebSocket (`ws://<shelly>/rpc`) works from another page. The script state is read with `Script.Eval` (`JSON.stringify(stateObject())`), the power history with `EM1Data.GetData` |
+| The EM1Data minute energy (`total_act_energy`) comes in steps of about 0.2072 Wh. An average power from it takes only the values 0, 12.4, 24.9, 37.3, 49.7 and 62.2 W and can be below the minute's minimum power. Found on 22 Nov 2026. | A power chart from the energy jumps | The power of a minute from its minimum and maximum power (`min_act_power`, `max_act_power`); the energy summed over a day is still right |
 | The EM1Data history does not show a short restart as a gap | A Shelly restart cannot be told from a short power cut | The reset reason from the `reset_reason` field of `Sys.GetStatus` |
 | The bottom bar of the Shelly web UI shows the device MAC address | It shows in screenshots | Crop the bottom bar out |

diff --git a/docs/shelly-rajoitteet.md b/docs/shelly-rajoitteet.md
@@ -51,5 +51,6 @@ Rajoitteet, jotka tulivat vastaan tätä skriptiä tehdessä. Ne on todettu Shel
 | --- | --- | --- |
 | Web-editorin tekstikentän enimmäispituus on 50 000 merkkiä (`maxlength`). Testattu 19.11.2026: 60 000 merkin liitoksesta jäi 50 000, ja tallennus vei katkaistun koodin laitteelle. Laite itse hyväksyy pidemmän koodin RPC:llä (`Script.PutCode`, testattu 60 000 merkkiä). | Liitos katkeaa **ilman varoitusta**, ja katkaistu skripti tallentuu | Tiivistetty versio (noin 40 000 merkkiä) tai `shelly/tools/lataa_shellyyn.py`, joka kirjoittaa paloina. Ilmoitettu Shellylle web-käyttöliittymän Feedback-lomakkeella. |
 | HTTP-kyselyyn, jossa on toisen sivun `Origin`-otsake, Shelly vastaa 503. Koskee RPC-kutsuja ja skriptin omia HTTP-osoitteita, myös paikallisesta tiedostosta avattua sivua (`Origin: null`). CORS-otsake skriptin vastauksessa ei auta. Asetusta tälle ei ole. Testattu 22.11.2026. | Selainsovellus ei voi käyttää HTTP-rajapintaa | WebSocket (`ws://<shelly>/rpc`) toimii toiselta sivulta. Skriptin tila luetaan kutsulla `Script.Eval` (`JSON.stringify(stateObject())`), tehohistoria `EM1Data.GetData`-kutsulla |
+| EM1Data-minuuttienergia (`total_act_energy`) on porrastettu noin 0,2072 Wh:n askeliin. Siitä laskettu minuutin keskiteho saa vain arvot 0; 12,4; 24,9; 37,3; 49,7 ja 62,2 W ja voi olla minuutin pienintä tehoa pienempi. Todettu 22.11.2026. | Energiasta laskettu tehokäyrä hyppii | Minuutin teho pienimmästä ja suurimmasta tehosta (`min_act_power`, `max_act_power`); vuorokauden energian summa on silti oikein |
 | EM1Data-historia ei näytä lyhyttä uudelleenkäynnistystä aukkona | Shellyn uudelleenkäynnistystä ei erota lyhyestä sähkökatkosta | Käynnistyssyy `Sys.GetStatus`-kutsun `reset_reason`-kentästä |
 | Shellyn käyttöliittymän alapalkissa näkyy laitteen MAC-osoite | Näkyy kuvakaappauksissa | Rajaa alapalkki pois |
